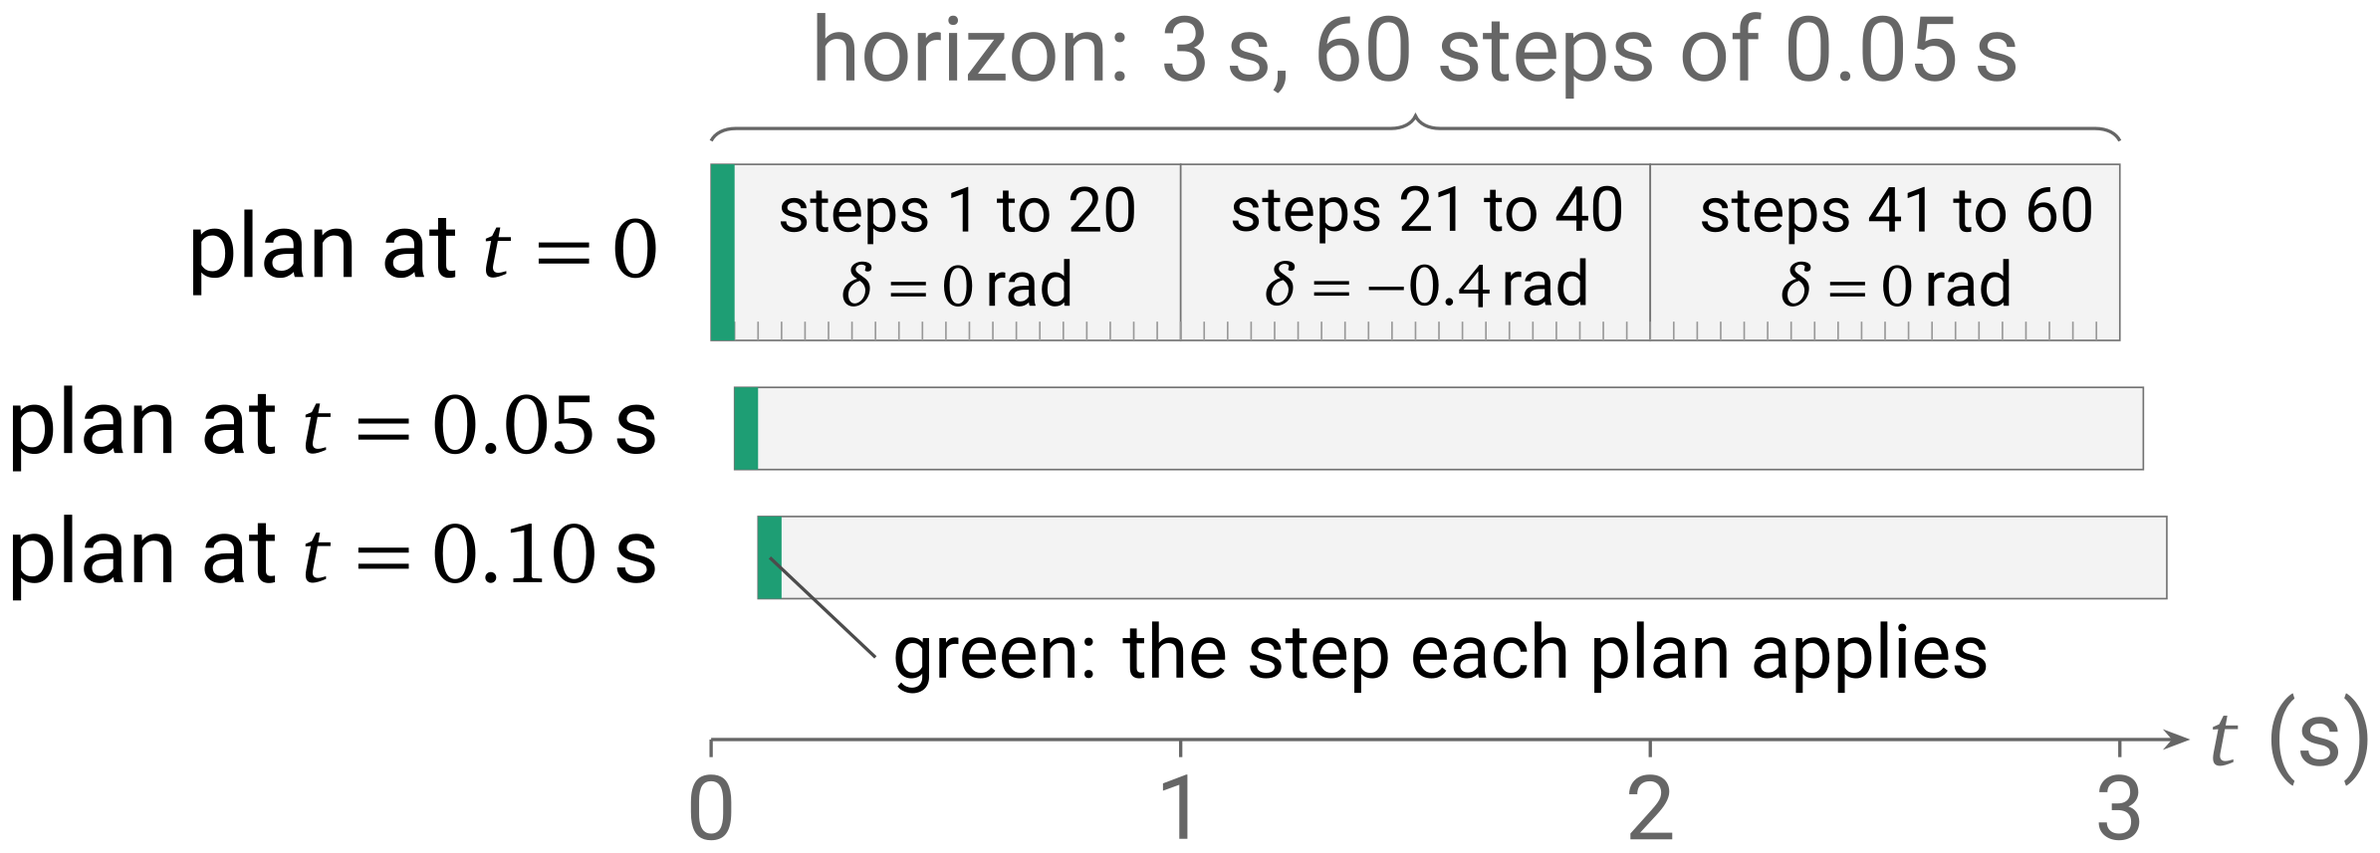
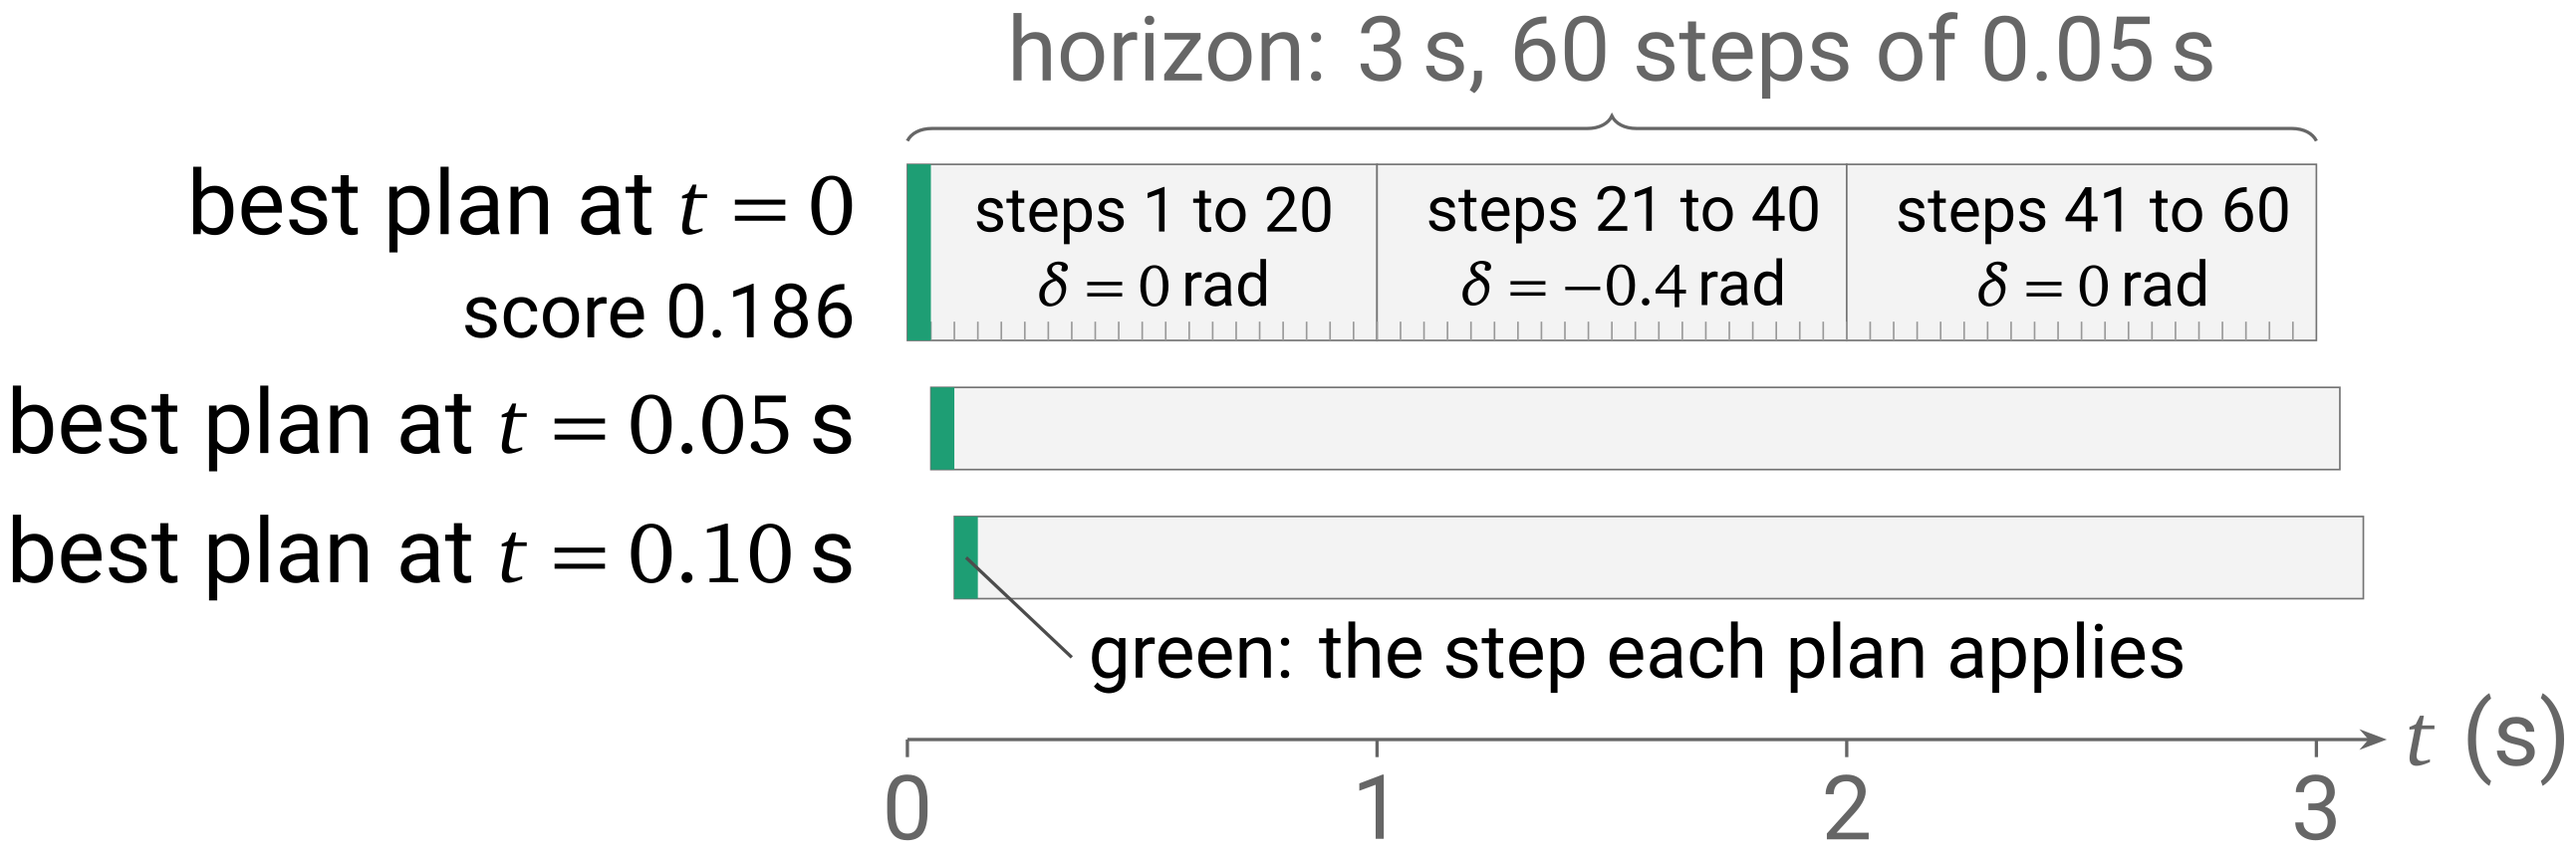
L10: the MPC timeline shows the best plan and its score

diff --git a/docs/source/lectures/lecture10/l10_lecture.rst b/docs/source/lectures/lecture10/l10_lecture.rst
@@ -4633,7 +4633,7 @@ Plan Ahead with MPC: Predict, Score, Apply the First Input, Repeat
    input; repeat from the newly measured state.
 
 .. figure:: /_static/images/L10/mpc_loop.png
-   :alt: A timeline of MPC plans, with time t in seconds from 0 to 3 along the bottom. A brace over the top row says the horizon: 3 s, 60 steps of 0.05 s. The top row, the plan at t = 0, is split into three pieces with a small tick for each step: steps 1 to 20, delta = 0 rad; steps 21 to 40, delta = -0.4 rad; steps 41 to 60, delta = 0 rad. Below it, two plain bars, the plans at t = 0.05 s and t = 0.10 s, each starting one step later. Each row's first step is green, and a label says green is the step each plan applies.
+   :alt: A timeline of MPC plans, with time t in seconds from 0 to 3 along the bottom. A brace over the top row says the horizon: 3 s, 60 steps of 0.05 s. The top row, the best plan at t = 0, score 0.186, is split into three pieces with a small tick for each step: steps 1 to 20, delta = 0 rad; steps 21 to 40, delta = -0.4 rad; steps 41 to 60, delta = 0 rad. Below it, two plain bars, the best plans at t = 0.05 s and t = 0.10 s, each starting one step later. Each row's first step is green, and a label says green is the step each plan applies.
    :width: 90%
    :align: center
 
@@ -4644,17 +4644,19 @@ Plan Ahead with MPC: Predict, Score, Apply the First Input, Repeat
 
    Time runs to the right, in seconds. Each row is one plan.
 
-   - **Top row:** the plan MPC makes at :math:`t` = 0, 2 m before the
-     curve. Its horizon is 3 s, cut into 60 steps of 0.05 s (the small
+   - **Top row:** the best plan at :math:`t` = 0, 2 m before the curve:
+     the winner of the score table above, 0.186. Its horizon is 3 s, cut into 60 steps of 0.05 s (the small
      ticks). The input at each step is a steering angle :math:`\delta`.
-   - **Lower rows:** the next two plans, each made one step later from the
-     new measured pose.
+   - **Lower rows:** the best plans at the next two steps, each made one
+     step later from the new measured pose.
    - **Green:** the one step each plan applies before the next plan.
 
-**Why only step 1:** the plan is a prediction, and it is never exact. Our
+The top row is the score table's winner: MPC picked it by its score, and
+the AV uses its steering angles. **Why only step 1:** the plan is a
+prediction, and it is never exact. Our
 model leaves out the steering delay and lag that the simulated car has, so
 the real AV would not follow the plan exactly. After 0.05 s, MPC measures where the AV really
-is and plans again from there: the second row, then the third. That makes
+is and picks a new best plan from there: the second row, then the third. That makes
 MPC a feedback controller. The other 59 steps still count: they are why
 step 1 is 0 rad (steering right 1 s early scored 3.308 instead of 0.186).
 Its horizon has times, so it can track a trajectory (timing 2, in
